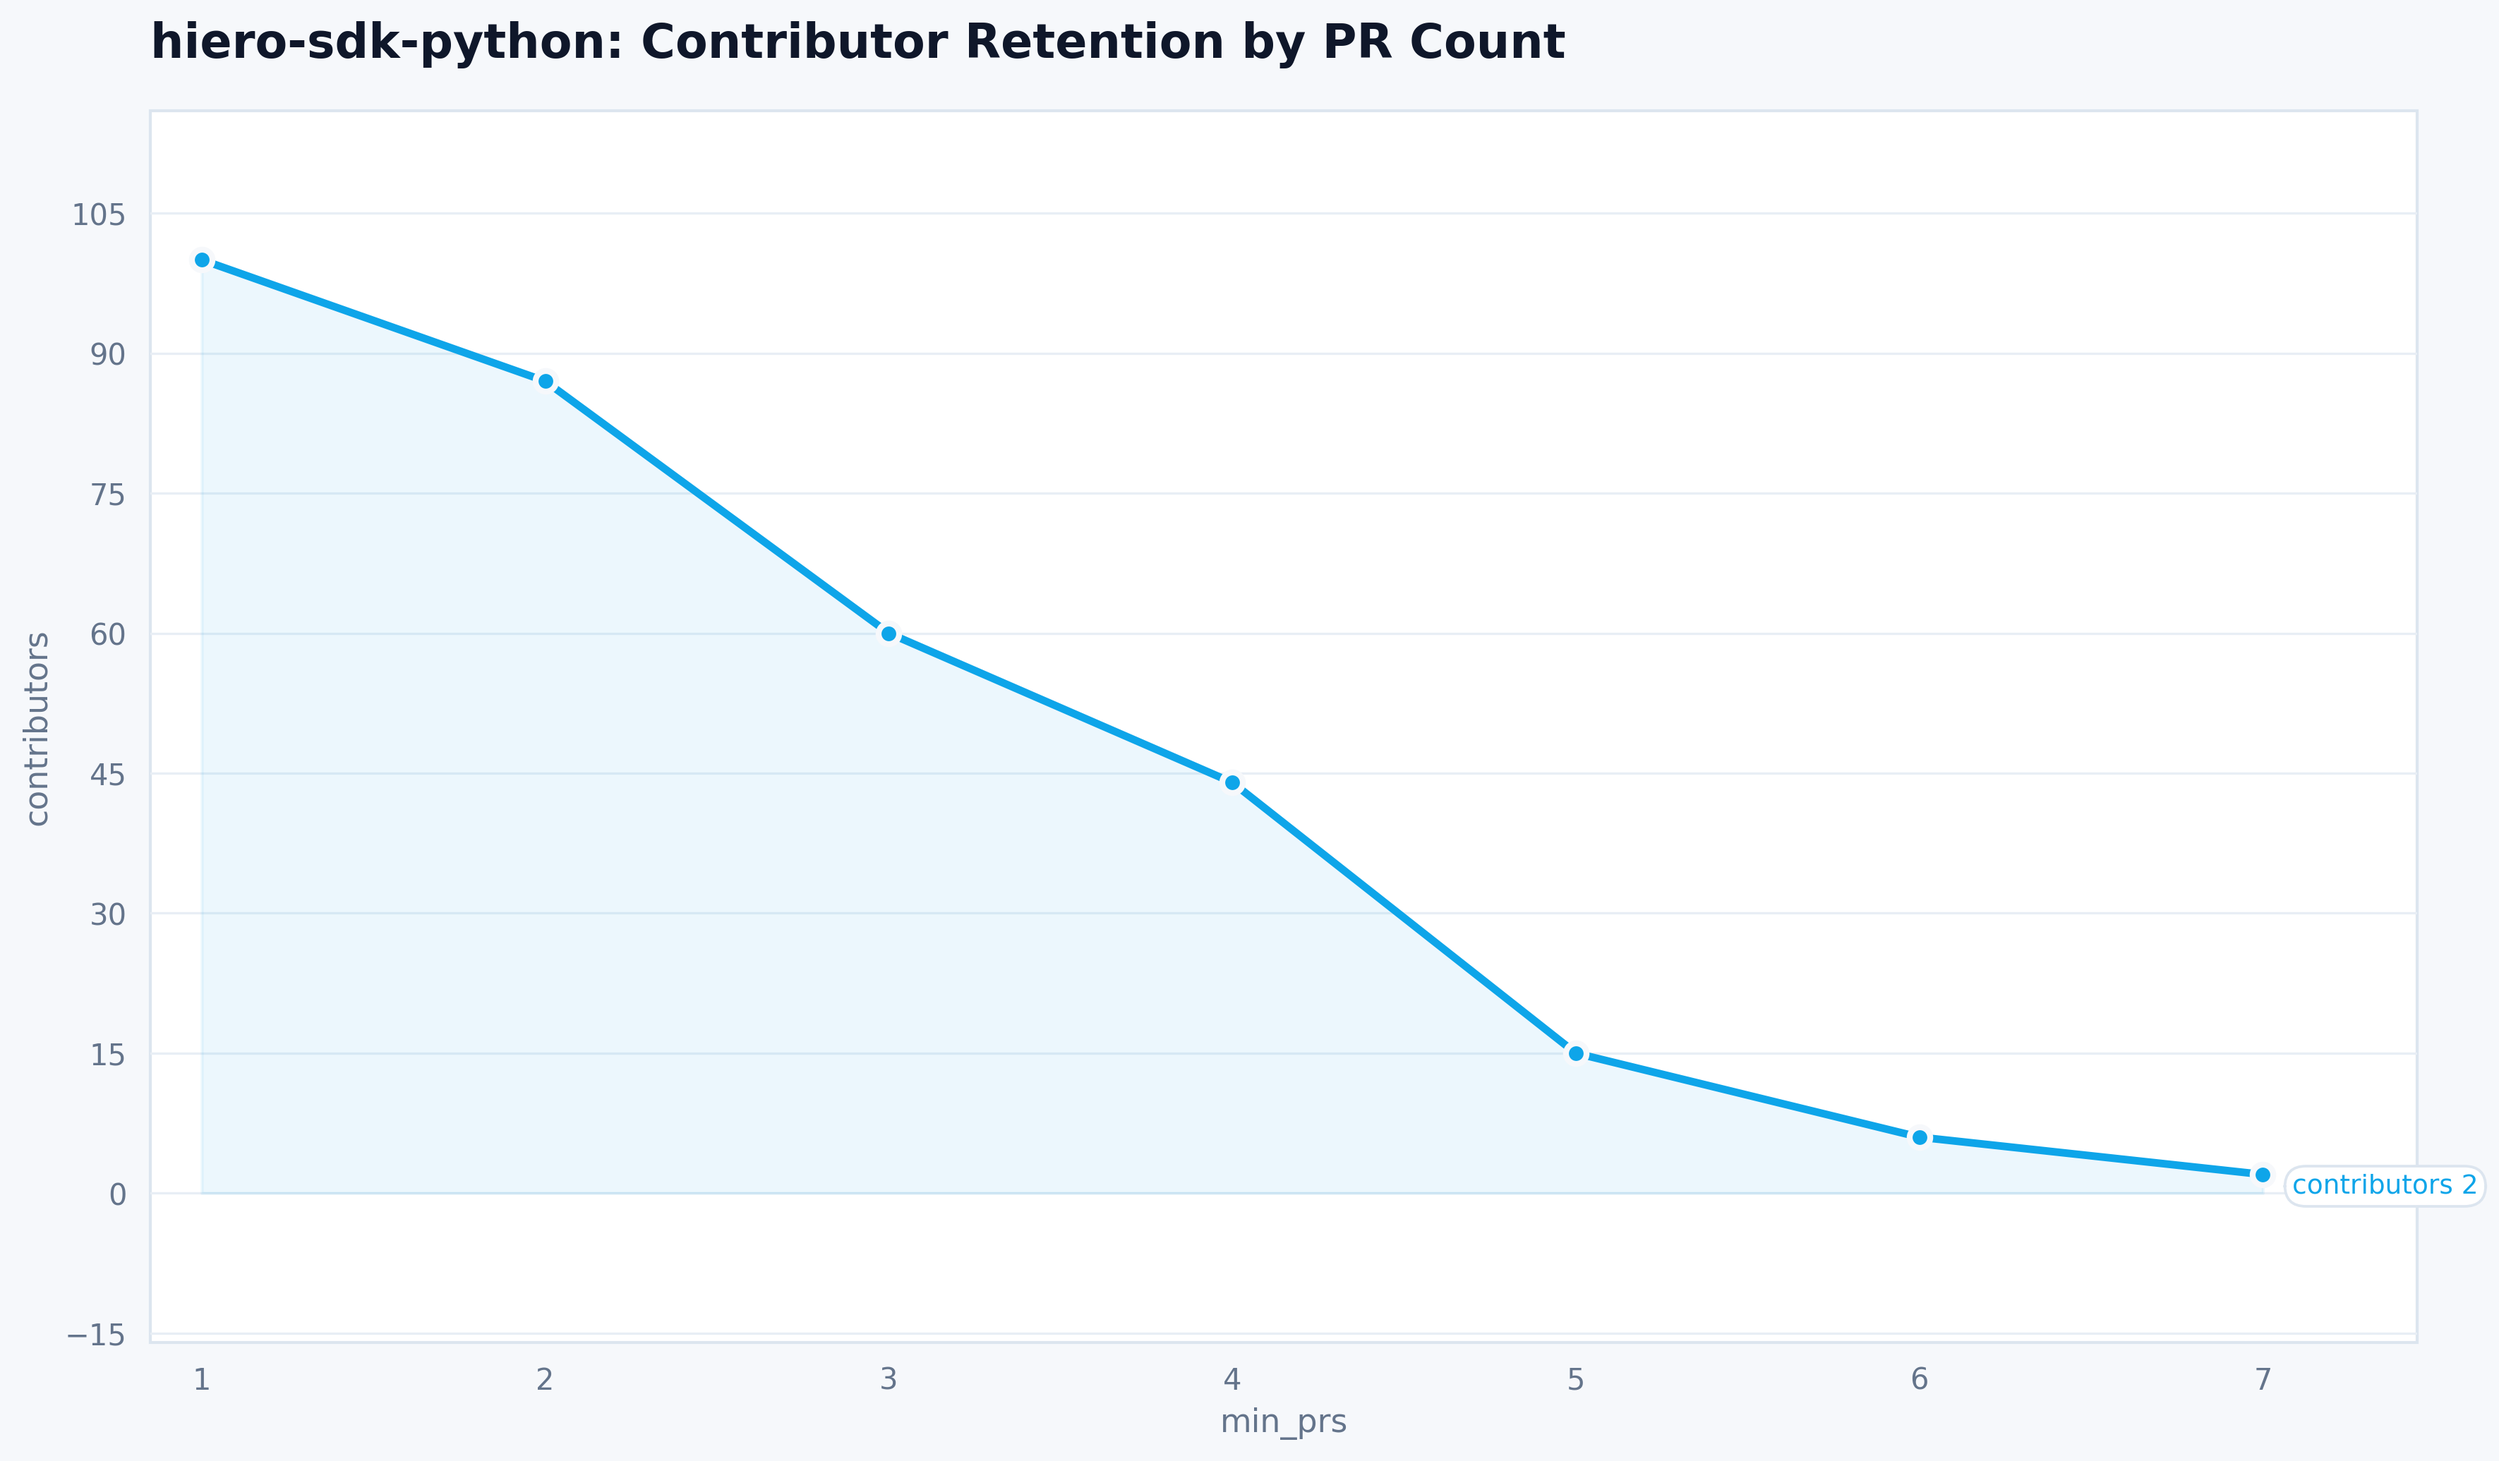
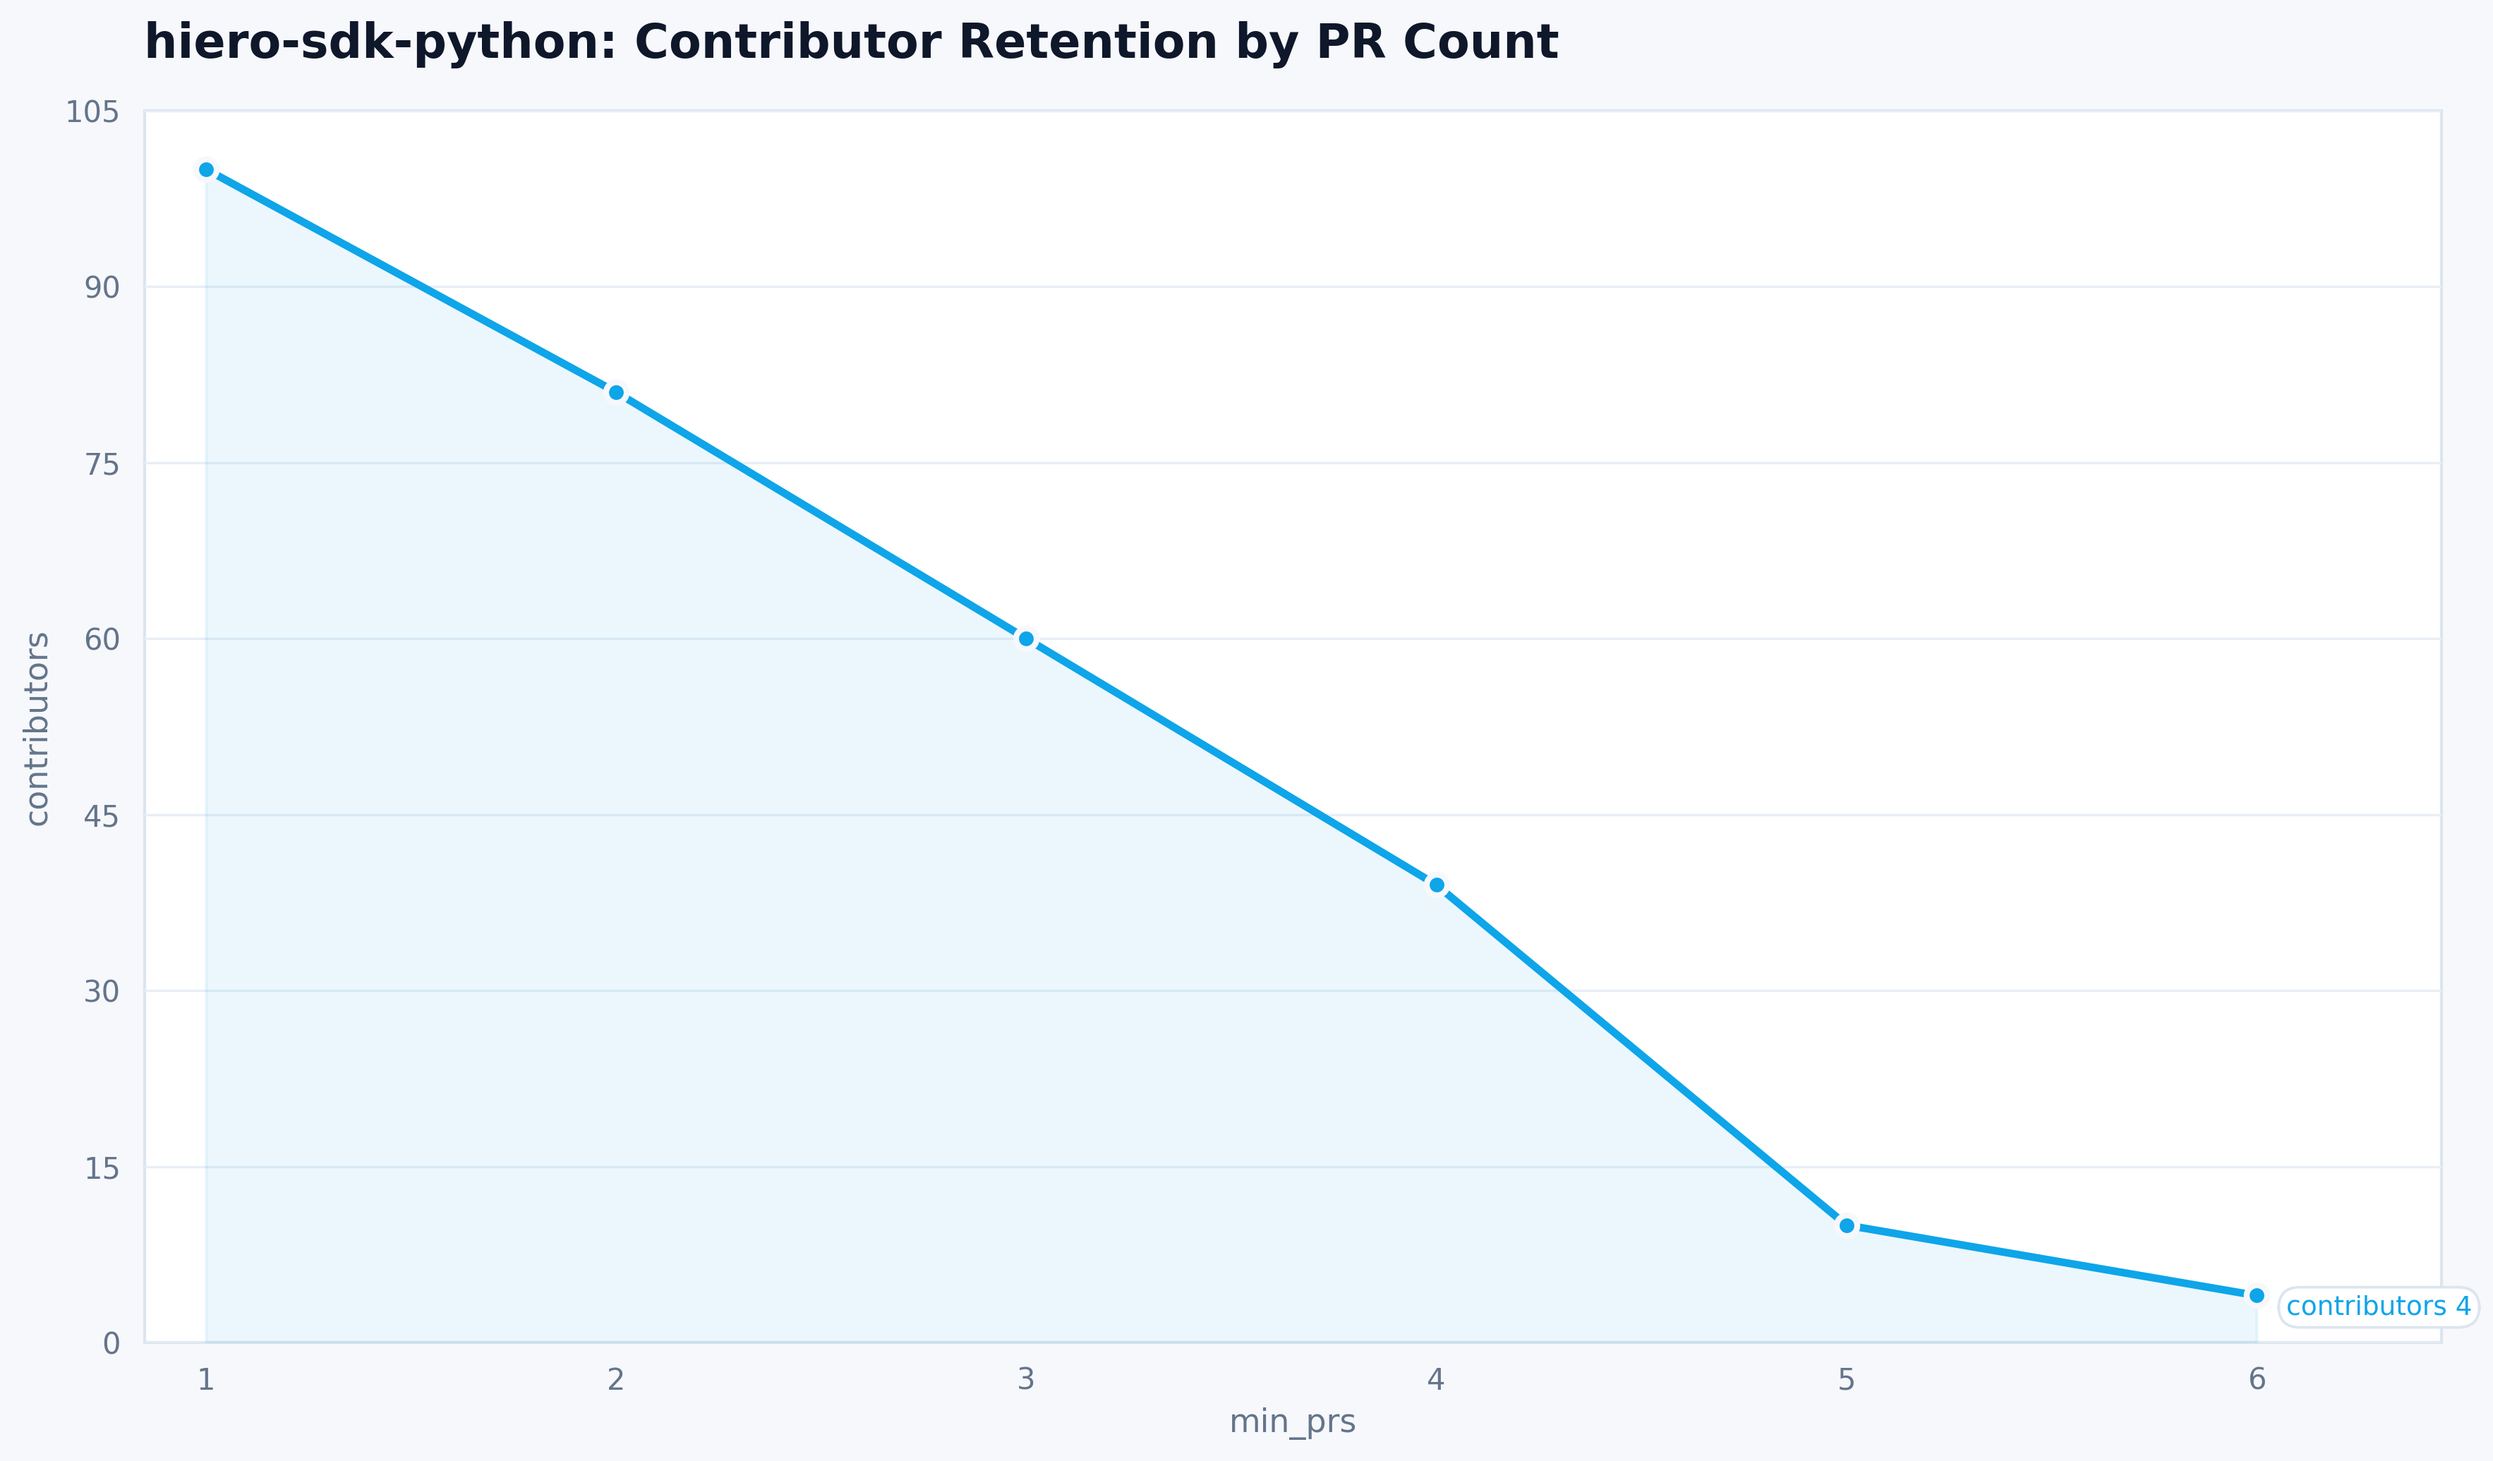
Update churn analysis + add retention and funnel charts

diff --git a/src/hiero_analytics/run_contributor_churn_analysis.py b/src/hiero_analytics/run_contributor_churn_analysis.py
@@ -1,4 +1,6 @@
 import os
+import random
+from datetime import datetime, timedelta
 import pandas as pd
 from hiero_analytics.config.logging import setup_logging
 from hiero_analytics.config.paths import ORG, ensure_repo_dirs
@@ -20,6 +22,46 @@ ORG_NAME = ORG
 REPO = "hiero-sdk-python"
 short_repo = REPO.split("/")[-1]
 
+def generate_mock_data():
+    """Generate mock PR data for testing when no token is present."""
+    print("Generating mock data for analysis...")
+    data = []
+    authors = [f"author_{i}" for i in range(100)]
+    
+    start_date = datetime(2023, 1, 1)
+    
+    for author in authors:
+        # Determine max level for this mock author
+        r = random.random()
+        if r < 0.6: # 60% stop at GFI
+            max_level_idx = 0
+        elif r < 0.85: # 25% reach Beginner
+            max_level_idx = 1
+        elif r < 0.95: # 10% reach Intermediate
+            max_level_idx = 2
+        else: # 5% reach Advanced
+            max_level_idx = 3
+            
+        current_date = start_date + timedelta(days=random.randint(0, 300))
+        
+        # Always start with GFI
+        levels_to_achieve = list(range(max_level_idx + 1))
+        
+        for l_idx in levels_to_achieve:
+            level_name = DIFFICULTY_LEVELS[l_idx].name
+            num_prs = random.randint(1, 4) if l_idx == max_level_idx else 1
+            for _ in range(num_prs):
+                data.append({
+                    "author": author,
+                    "pr_merged_at": current_date,
+                    "level": level_name,
+                    "issue_labels": list(DIFFICULTY_LEVELS[l_idx].labels),
+                    "pr_number": random.randint(1, 10000)
+                })
+                current_date += timedelta(days=random.randint(1, 30))
+                
+    return pd.DataFrame(data)
+
 def get_contributor_level(labels: set[str]) -> str:
     """Classify PR difficulty level based on labels."""
     for spec in reversed(DIFFICULTY_LEVELS): # advanced, intermediate, beginner, gfi
@@ -30,25 +72,26 @@ def get_contributor_level(labels: set[str]) -> str:
 def run():
     repo_data_dir, repo_charts_dir = ensure_repo_dirs(f"{ORG_NAME}/{REPO}")
 
-    # GITHUB_TOKEN check remains here as a fail-fast for the runner
     if not os.getenv("GITHUB_TOKEN"):
-        raise RuntimeError("no github token, exiting data fetch as it will exceed api limits")
-
-    client = GitHubClient()
-    print(f"Fetching PR data for {ORG_NAME}/{REPO}...")
-    prs = fetch_repo_merged_pr_difficulty_graphql(
-        client,
-        owner=ORG_NAME,
-        repo=REPO,
-        use_cache=True
-    )
+        print("GITHUB_TOKEN not set. Using mock data.")
+        df = generate_mock_data()
+    else:
+        client = GitHubClient()
+        print(f"Fetching PR data for {ORG_NAME}/{REPO}...")
+        prs = fetch_repo_merged_pr_difficulty_graphql(
+            client,
+            owner=ORG_NAME,
+            repo=REPO,
+            use_cache=True
+        )
+        
+        df = prs_to_dataframe(prs)
+        if df.empty:
+            print("No PR data found. Using mock data.")
+            df = generate_mock_data()
+        else:
+            df["level"] = df["issue_labels"].apply(lambda labels: get_contributor_level(set(labels or [])))
     
-    df = prs_to_dataframe(prs)
-    if df.empty:
-        print("No PR data found.")
-        return
-
-    df["level"] = df["issue_labels"].apply(lambda labels: get_contributor_level(set(labels or [])))
     df = df.dropna(subset=["author", "pr_merged_at"]).sort_values(["author", "pr_merged_at"])
     
     # Core analysis logic moved to hiero_analytics.analysis.contributor_churn

diff --git a/src/hiero_analytics/plotting/scatter.py b/src/hiero_analytics/plotting/scatter.py
@@ -124,6 +124,7 @@ def plot_scatter_with_regression(
     # Layout polish
     # -------------------------
     ax.margins(x=0.05, y=0.08)
+    ax.set_ylim(bottom=0)
 
     # -------------------------
     # Finalize
